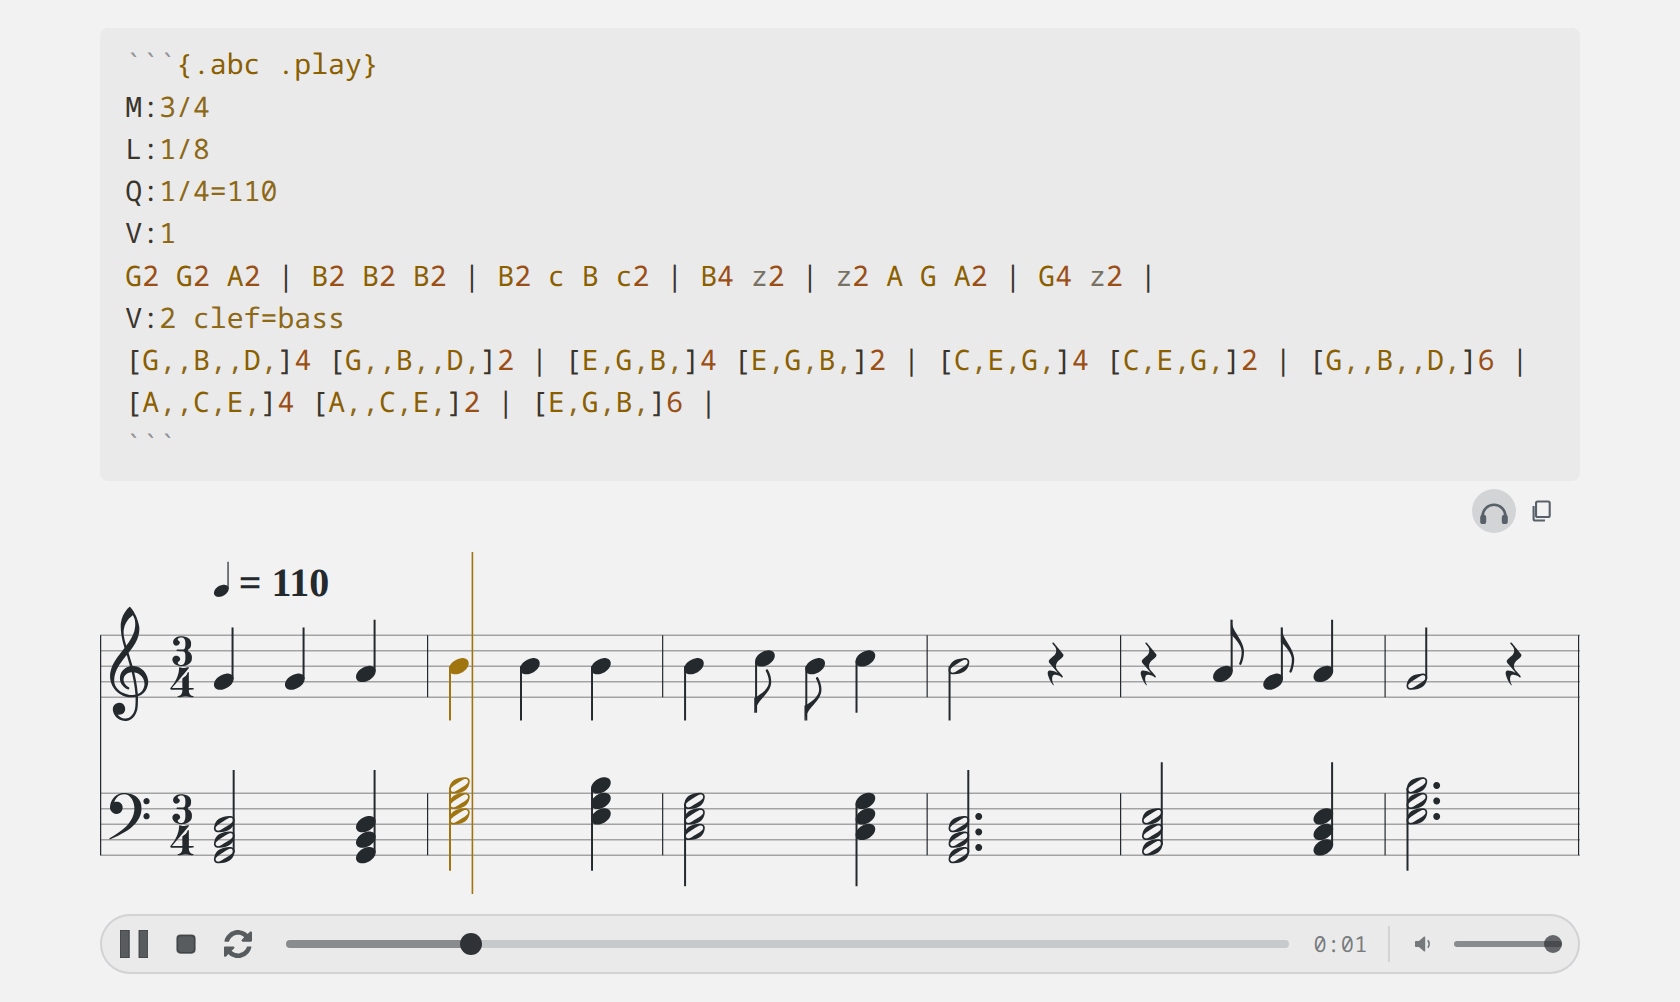
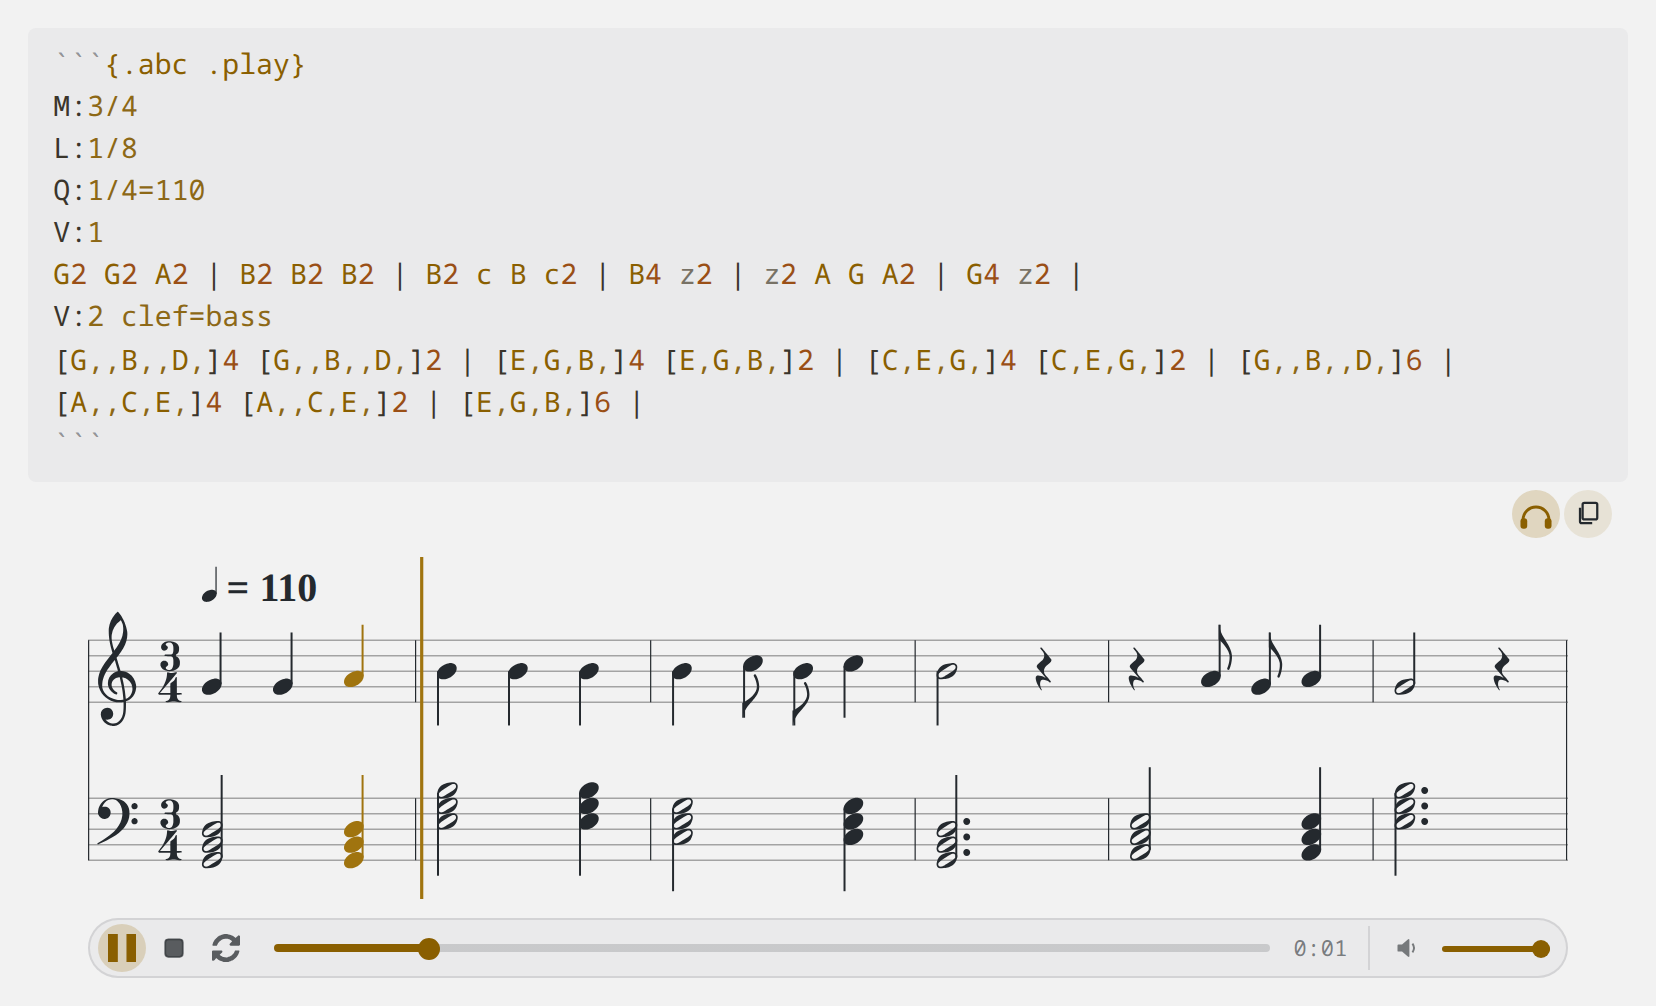
docs: Point the READMEs at the Marketplace and the example
The project README introduces the published extension and the extension
README hands a reader example.mdm to open it on; the player screenshot
and its caption pick up the brass chrome. The collapsed code fences and
two swallowed spaces a reflow left behind are put back.

diff --git a/README.md b/README.md
@@ -1,4 +1,4 @@
-# <img src="vscode-mdm/media/icon.png" alt="" width="96" align="absmiddle"> Markdown Music
+# Markdown Music
 
 A document format for technical writing that mixes mathematics and music:
 standard Markdown (with LaTeX equations) plus music blocks in ABC notation
@@ -8,6 +8,14 @@ about the format shows them as code and nothing breaks.
 
 Implemented as a Quarto extension, which brings everything else for free
 (HTML + PDF, theorems, cross-references, bibliography).
+
+The editor for it is a **VS Code extension**, "Markdown Music", published on
+the [Marketplace](https://marketplace.visualstudio.com/items?itemName=alpelito7.mdm-editor): it opens an `.mdm` file as a rendered, editable document,
+with the equations as KaTeX, the scores engraved in place and a player on the
+ones that ask for one, and every part still plain Markdown underneath. Its
+source is in [`vscode-mdm/`](vscode-mdm/) and it has [a section of its own below](#visual-editor-for-vs-code-vscode-mdm). The format
+does not depend on it: the Quarto filter renders an `.mdm` from the command
+line with no editor anywhere.
 
 ## Installation
 
@@ -131,13 +139,14 @@ What varies travels as plain metadata, which the VS Code extension passes
 when it exports (`exportLook` in `vscode-mdm/extension.js`) and a plain
 `bin/mdm render` does not pass at all:
 
-| Key | Values |
-|---|---|
-| `mdm-look` | `light`, `dark`, `white`: the side the editor is on, and with it the two grounds, the ink and the accents |
-| `mdm-staff-lines` | `gray`, `ink` |
-| `mdm-score-fill` | `none`, `paper`, `slate`, `brass` |
-| `mdm-score-align` | `center`, `left` |
-| `mdm-syn-*` | the ten syntax slots (`base`, `bg`, `comment`, `string`, `number`, `keyword`, `attr`, `name`, `type`, `variable`), as six hex digits **without** the `#`, which would open a YAML comment |
+
+| Key               | Values                                                                                                                                                                                    |
+| ------------------- | ------------------------------------------------------------------------------------------------------------------------------------------------------------------------------------------- |
+| `mdm-look`        | `light`, `dark`, `white`: the side the editor is on, and with it the two grounds, the ink and the accents                                                                                 |
+| `mdm-staff-lines` | `gray`, `ink`                                                                                                                                                                             |
+| `mdm-score-fill`  | `none`, `paper`, `slate`, `brass`                                                                                                                                                         |
+| `mdm-score-align` | `center`, `left`                                                                                                                                                                          |
+| `mdm-syn-*`       | the ten syntax slots (`base`, `bg`, `comment`, `string`, `number`, `keyword`, `attr`, `name`, `type`, `variable`), as six hex digits **without** the `#`, which would open a YAML comment |
 
 So a render from a terminal comes out in the editor's default look with the
 palette the editor itself falls back to (stackoverflow-light), and one from
@@ -251,7 +260,7 @@ the look for the HTML format alone.
   TeX Live).
 - `abcm2ps` (for PDF). Not included: install it from the system's packages
   (Debian and Ubuntu `apt install abcm2ps`, macOS `brew install abcm2ps`) or
-  build it from <https://github.com/lewdlime/abcm2ps>. The filter looks for
+  build it from [https://github.com/lewdlime/abcm2ps](https://github.com/lewdlime/abcm2ps). The filter looks for
   it at `tools/bin/abcm2ps` beside the document first and then in the PATH,
   so a local build can be dropped there; another path can be set in the
   YAML header of the document:
@@ -436,6 +445,7 @@ How the editing works:
   the widget and the player reopens on it, paused and on the new source.
   Only the piano is vendored: a different `%%MIDI program` will not find
   its notes.
+
   - **Resuming after a pause keeps the beat**: the resuming play restarts
     the sound exactly where it stopped but MUTED, what was left of the cut
     note passes in real silence with the clock running, and the gain comes
@@ -610,8 +620,7 @@ How the editing works:
     shown; the CSS tooltip of the editor (`.mdm-tip`, drawn from
     `aria-label`) is used instead, the same one the copy button has. The
     volume slider carries `outline: none`: VS Code injects a sheet of its
-    own into every webview with `a:focus, input:focus, select:focus,
-    textarea:focus { outline: 1px solid -webkit-focus-ring-color }` (it is
+    own into every webview with `a:focus, input:focus, select:focus, textarea:focus { outline: 1px solid -webkit-focus-ring-color }` (it is
     in the preload of the installed build), and that system colour is
     amber in Chromium, so setting the volume drew a yellow box. Keyboard
     focus keeps a mark, in the ink of the bar.
@@ -635,6 +644,7 @@ How the editing works:
   Everything comes from two mixes of the theme's own colours: the *tint*,
   which is `editor.background` taken 6% towards the foreground, and the
   *wash*, the same mix at 2%.
+
   - *Light*: the code keeps its usual slate (the tint) and the page takes
     the wash, so it sits a step below the white the theme gives. Measured
     with the stackoverflow-light fallback palette: page rgb(242,242,242),

diff --git a/vscode-mdm/README.md b/vscode-mdm/README.md
@@ -6,11 +6,15 @@ as a score and play it back. The editor around them is a full one, with
 multicursor, an outline down the left edge, a look set from the toolbar and
 an export to HTML or PDF.
 
-The music is written in
-[ABC notation](https://abcnotation.com/wiki/abc:standard:v2.1) inside
-ordinary fenced blocks, so an `.mdm` file is valid Markdown throughout and
-any other editor shows it as code with nothing broken. Every part is drawn
-in place and every part is still plain text underneath.
+The music is written in [ABC notation](https://abcnotation.com/wiki/abc:standard:v2.1) inside ordinary fenced blocks, so an
+`.mdm` file is valid Markdown throughout and any other editor shows it as
+code with nothing broken. Every part is drawn in place and every part is still
+plain text underneath.
+
+A document to open it on: **[example.mdm](https://github.com/alpelito7/markdown_music/blob/main/example.mdm)**, the sample of the project, with
+equations, code, scores and player. Download it from the [raw file](https://raw.githubusercontent.com/alpelito7/markdown_music/main/example.mdm), save it
+anywhere with the `.mdm` extension and open it in VS Code: it comes up
+in this editor.
 
 ![An equation and a score rendered in the editor, dark side](https://raw.githubusercontent.com/alpelito7/markdown_music/main/vscode-mdm/docs/screenshot-dark.png)
 
@@ -48,7 +52,7 @@ the block opens its ABC above the engraving, and while a tune plays a
 brass cursor glides across the score and the notes light up under it as
 they sound, every voice of them:
 
-![A duet playing with its ABC source open above the engraving: the brass cursor standing across both staves, the two notes it has just reached lit in brass under it, one on each staff, and the player bar underneath](https://raw.githubusercontent.com/alpelito7/markdown_music/main/vscode-mdm/docs/screenshot-player.png)
+![A duet playing with its ABC source open above the engraving: the brass cursor standing across both staves, the two notes it has just reached lit in brass under it, one on each staff, and the player bar underneath, its play button, its progress and its open headphones lit in that same brass](https://raw.githubusercontent.com/alpelito7/markdown_music/main/vscode-mdm/docs/screenshot-player.png)
 
     ```{.abc .play}
     X:1
@@ -103,16 +107,17 @@ away.
 
 ## Settings
 
-| Setting | What it holds |
-|---|---|
-| `mdm.theme` | `auto`, `light`, `dark`, `white`, or the name of an installed colour theme |
-| `mdm.staffLines` | `gray` or `ink` |
-| `mdm.scoreFill` | `none`, `paper`, `slate`, `brass` |
-| `mdm.scoreAlign` | `center` or `left` |
-| `mdm.frontMatter` | whether the YAML header is shown in the document |
-| `mdm.outline` | whether the outline panel is open |
-| `mdm.outlineWidth` | the outline panel's width in pixels |
-| `mdm.multicursorMatch` | whether `Ctrl+D` matches whole words or inside them |
+
+| Setting                | What it holds                                                              |
+| ------------------------ | ---------------------------------------------------------------------------- |
+| `mdm.theme`            | `auto`, `light`, `dark`, `white`, or the name of an installed colour theme |
+| `mdm.staffLines`       | `gray` or `ink`                                                            |
+| `mdm.scoreFill`        | `none`, `paper`, `slate`, `brass`                                          |
+| `mdm.scoreAlign`       | `center` or `left`                                                         |
+| `mdm.frontMatter`      | whether the YAML header is shown in the document                           |
+| `mdm.outline`          | whether the outline panel is open                                          |
+| `mdm.outlineWidth`     | the outline panel's width in pixels                                        |
+| `mdm.multicursorMatch` | whether `Ctrl+D` matches whole words or inside them                        |
 
 ## Notes
 
